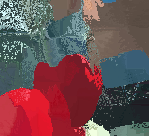
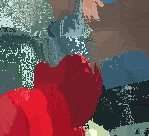
more testing

diff --git a/assign1/meanset.py b/assign1/meanset.py
@@ -2,8 +2,8 @@ import sys
 import cv2
 import numpy as np
 import math
-kernel_hs=30
-kernel_hc=30
+kernel_hs=25
+kernel_hc=25
 flat_kernel_h=1
 kernel_h=10
 kernel_window=4*kernel_h
@@ -86,12 +86,12 @@ def assignmode(x,y):
 		lis[i]=[tx,ty]
 		i=i+1
 		[tx,ty]=[tx+gradp[tx][ty][0],ty+gradp[tx][ty][1]]
-	# a=set([(x[0]*x[1]) for x in lis])
+	a=set([(x[0]*x[1]) for x in lis])
 	val2=[tx,ty]
 	if (len(a)<50):
 		val=10
-		for k in range(max(0,tx-kernel_window),min(height,tx+kernel_window)):
-			for l in range(max(0,ty-kernel_window),min(width,ty+kernel_window)):
+		for k in range(max(0,tx-kernel_window),min(height,tx)):
+			for l in range(max(0,ty-kernel_window),min(width,ty)):
 				temp=dist(tx,ty,final[k][l][0],final[k][l][1])
 				if(temp<val and final[k][l][0] != -1 and not(k==tx and l==ty )):
 					val=temp
